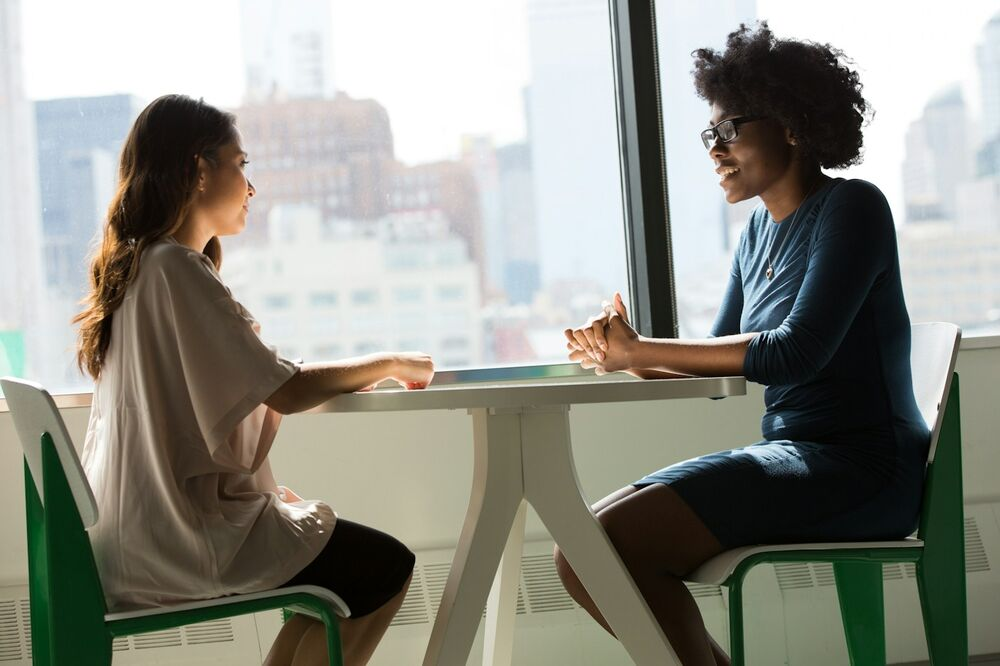
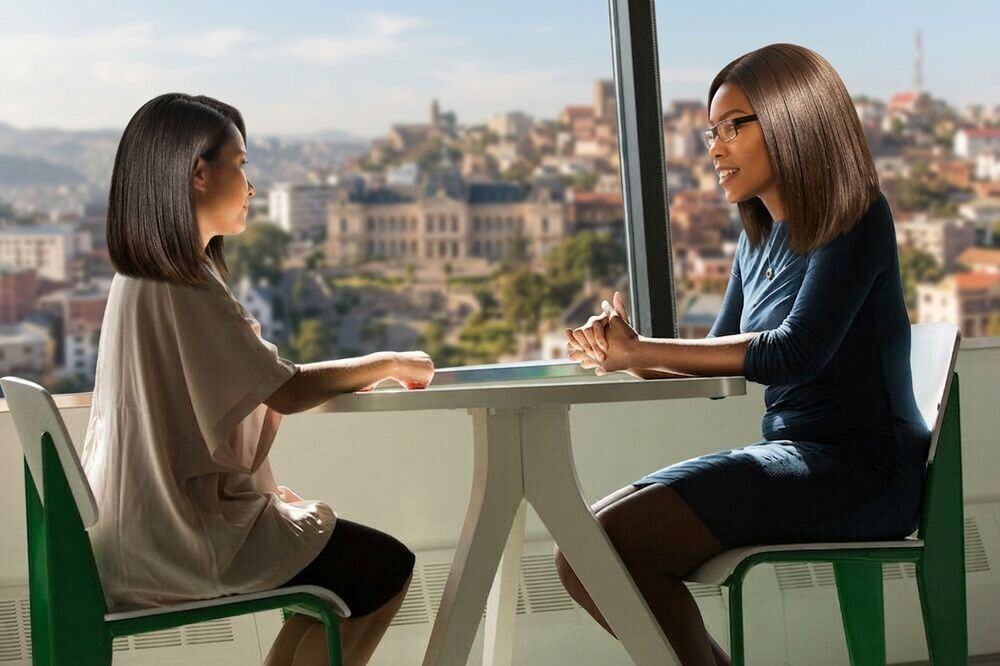
changement des photo

diff --git a/public/images/services/CREDITS.md b/public/images/services/CREDITS.md
@@ -51,7 +51,7 @@ quasi-doublons détectés par empreinte perceptive figurent aussi ici.
 
 ## Visuels retravaillés par Label Technology
 
-Douze photographies ont été remplacées par des versions produites par Label
+Dix-neuf photographies ont été remplacées par des versions produites par Label
 Technology, montrant des personnes malgaches et des décors d'Antananarivo.
 Elles ne proviennent donc plus d'Unsplash : la ligne correspondante des
 tableaux ci-dessus ne s'applique plus à ces fichiers.
@@ -70,5 +70,12 @@ tableaux ci-dessus ne s'applique plus à ces fichiers.
 | `pages/testimonials.jpg` |
 | `pages/valeur-1.jpg` |
 | `pages/valeur-4.jpg` |
+| `services/index/band.jpg` |
+| `services/index/mosaic-a.jpg` |
+| `services/index/mosaic-b.jpg` |
+| `services/index/row.jpg` |
+| `services/index/row2.jpg` |
+| `services/materiel/band.jpg` |
+| `services/materiel/step-4.jpg` |
 
 Les originaux fournis sont conservés en `.jpeg` dans `photos-personnes/`.
